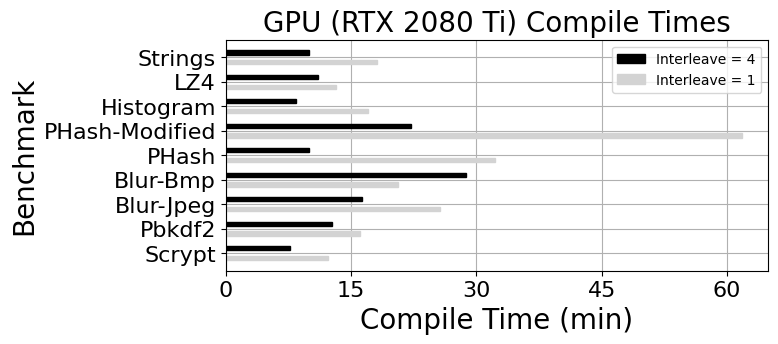
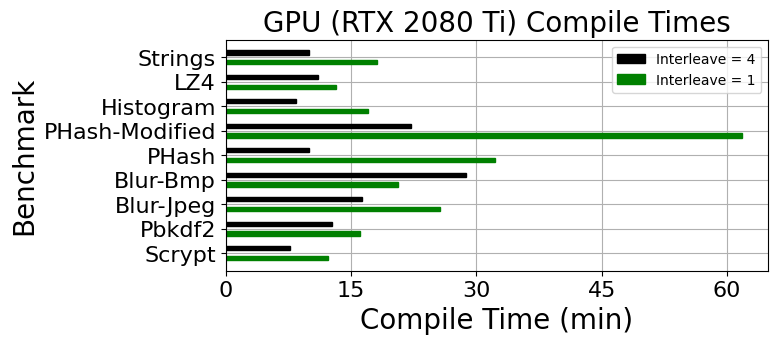
update figures

diff --git a/benchmarks/make_figures.py b/benchmarks/make_figures.py
@@ -226,7 +226,7 @@ def plot_compile_times():
     plt.xlabel('Compile Time (min)')
     p1 = plt.barh(ind, compile_times_1, width)
     for idx in range(9):
-        p1[idx].set_color('lightgray')
+        p1[idx].set_color('green')
 
     p2 = plt.barh(ind2, compile_times_4, width)
     for idx in range(9):
